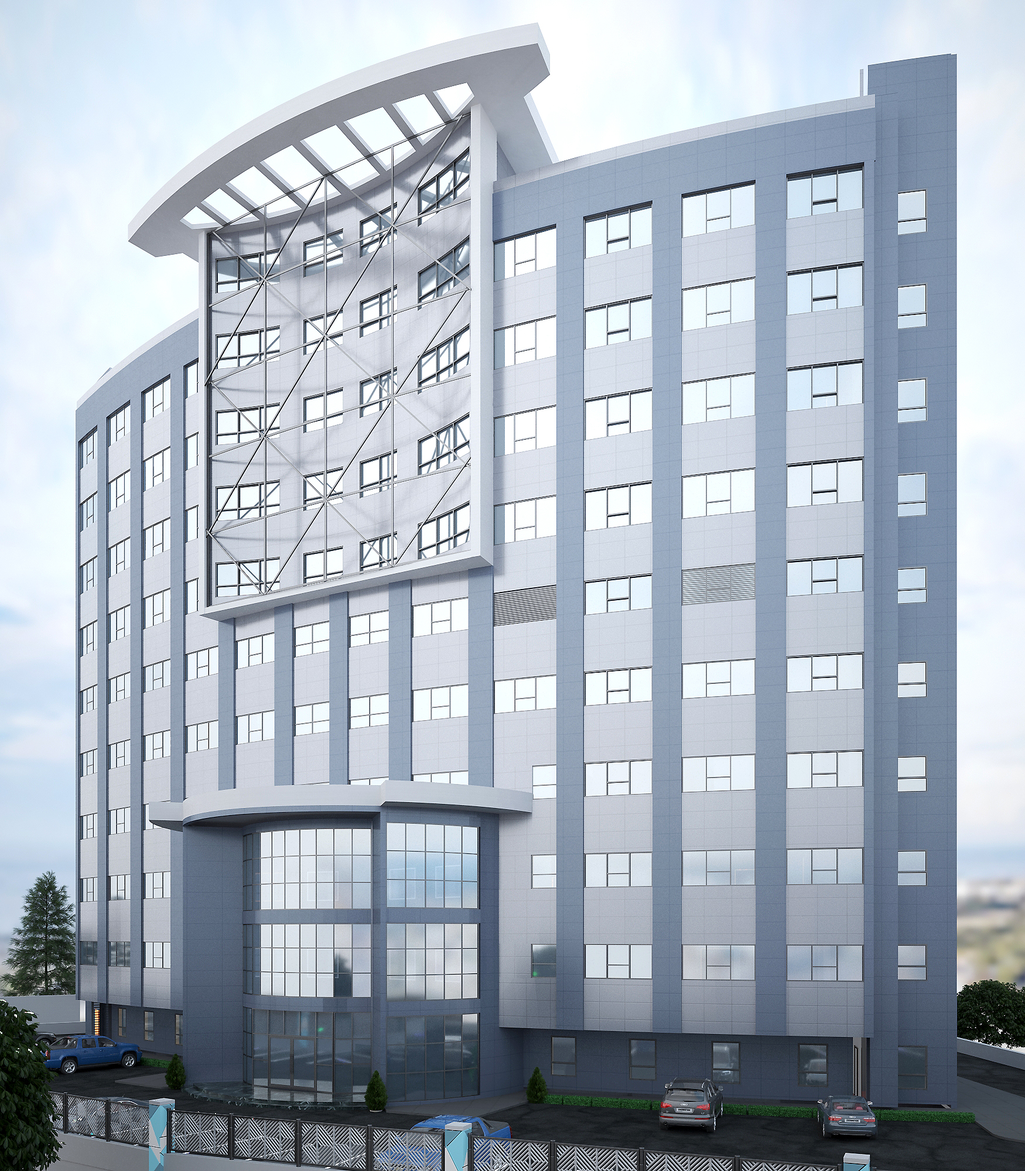
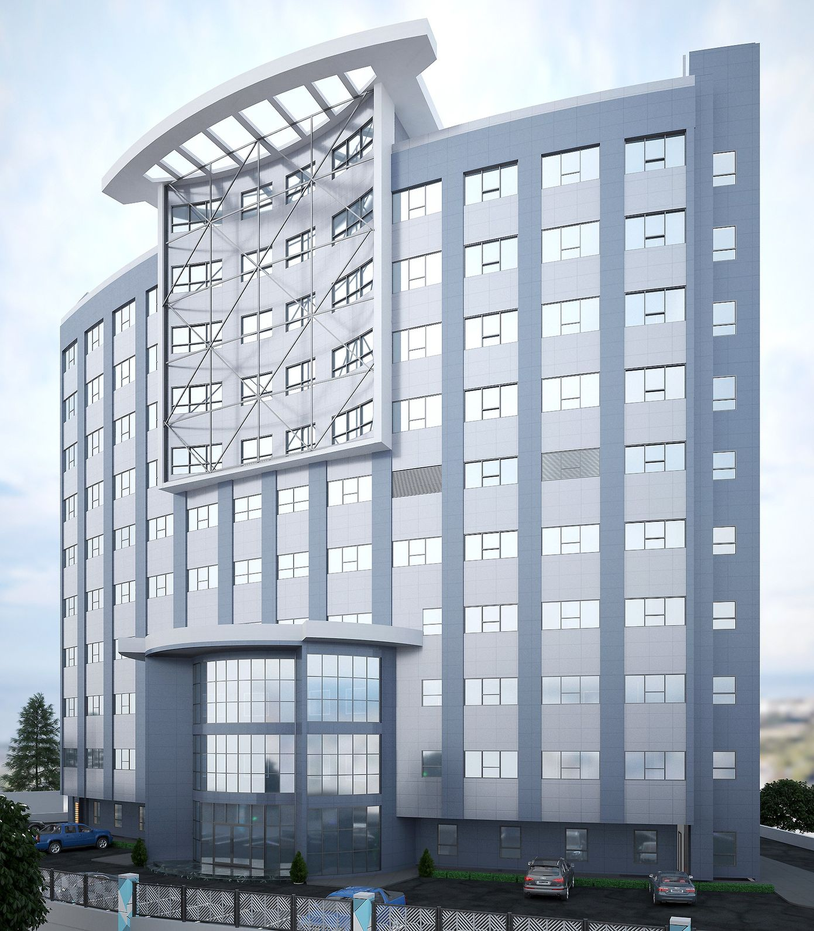
optimized niss hospital pics

diff --git a/src/Routes/services.jsx b/src/Routes/services.jsx
@@ -66,14 +66,17 @@ const Services = () => {
               justifyContent={"flex-start"}
               alignItems={"center"}>
               <Image
-                width={"50%"}
-                objectFit={"cover"}
-                src={{
-                  smDown: item.img2,
-                  smToLg: item.img2,
-                  lgTo2xl: item.img,
+                width={{
+                  smDown: "100%",
+                  smToLg: "100%",
                 }}
-                height={"100%"}
+                objectFit={"cover"}
+                src={item.img2}
+                height={{
+                  smDown: "100%",
+                  smToLg: "100%",
+                  lgTo2xl: "37vh",
+                }}
                 alt={item.title}
               />
               <Flex direction='column' gap={2} p={2}>

diff --git a/src/components/MetroGlobal/Footer.jsx b/src/components/MetroGlobal/Footer.jsx
@@ -1,6 +1,7 @@
 import { Flex, Image, List, SimpleGrid, Text } from "@chakra-ui/react";
 import { NavLink } from "react-router-dom";
-import Logo2 from "@/assets/logo2.svg";
+import Logo from "@/assets/logo.svg";
+
 import Metro from "@/assets/metro.png";
 
 import { FaFacebook, FaInstagram, FaLinkedinIn } from "react-icons/fa";
@@ -46,7 +47,7 @@ const Footer = () => {
       bg={"#121212"}
       pos={"relative"}>
       <Flex p={4}>
-        <Image src={Logo2} />
+        <Image src={Logo} />
       </Flex>
       <SimpleGrid columns={[1, 1, 3, 3, 3]} gap={10} p={4}>
         <Flex flexDirection={"column"} gap={4}>

diff --git a/src/Routes/Projects.jsx b/src/Routes/Projects.jsx
@@ -34,9 +34,9 @@ import mad3 from "@/assets/01.png";
 import mad4 from "@/assets/02.png";
 import mad6 from "@/assets/04.png";
 import mad7 from "@/assets/05.png";
-import niss1 from "@/assets/niss1.png";
+import niss1 from "@/assets/niss1.jpeg";
 import niss2 from "@/assets/niss2.jpg";
-import niss3 from "@/assets/niss3.png";
+import niss3 from "@/assets/niss3.jpeg";
 import niss4 from "@/assets/niss4.jpg";
 import niss5 from "@/assets/niss5.jpg";
 

diff --git a/src/Routes/AboutUs.jsx b/src/Routes/AboutUs.jsx
@@ -154,7 +154,7 @@ const AboutUs = () => {
       <Image
         src={CoreValue2}
         w={"100%"}
-        fit={["contain", "contain", "cover", "cover"]}
+        fit={["contain", "contain", "contain", "contain"]}
         height={{ smDown: "55vh", smToLg: "55vh", lgTo2xl: "150vh" }}
       />
 
